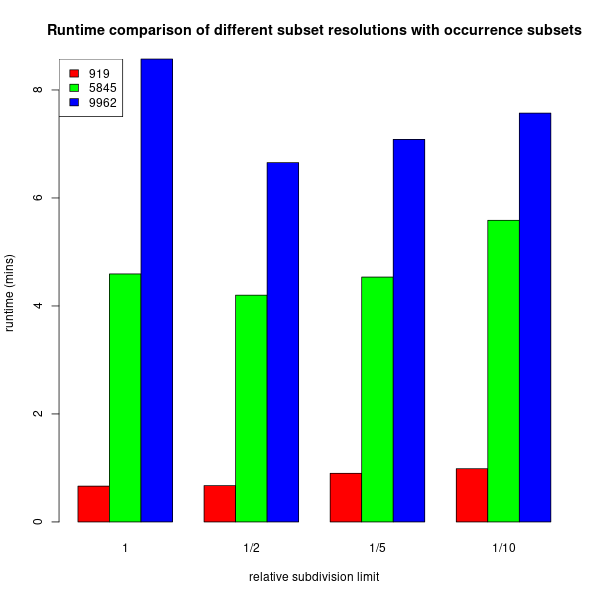
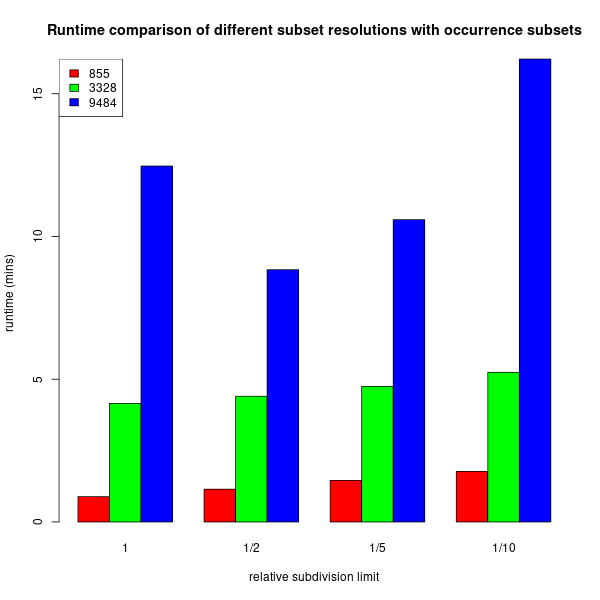
abs_gen with lc per year + benchmark + notebook

diff --git a/R/notebook.md b/R/notebook.md
@@ -3,7 +3,7 @@ This entry compiles everything up to the first entry.
 The Gbif data for *Harmonia axyridis* was downloaded from the website, Copernicus land cover classification layers for 1992-2020 as well. 
 The CHELSA bioclim layers were downloaded with wget.  
 At first, all Gbif occurrences were checked for NA values in coordinates, year and coordinate uncertainty. 
-Afterwards, they were cleaned using all default tests for the function 'clean_coordinates' from 'CoordinateCleaner'.  
+Afterwards, they were cleaned using all default tests for the function `clean_coordinates` from `CoordinateCleaner`.  
 The land cover layers were aggregated to match the resolution of the climate data, so a 3x3 cell area of the original layer was aggregated to one larger cell, matching the resolution of the CHELSA bioclim layers.
 The new value was the mode of the 9 grid cells.  
 The global layer was cropped to two spatial extents. 
@@ -45,7 +45,7 @@ The presence points will be subset per year and area to be able to give them the
 
 ### 08/08/2023
 The generation of background points was finished.
-Subsetting was not necessary, since the generated points were automatically assigned by the 'buffer' and 'spatSample' functions from 'terra'.
+Subsetting was not necessary, since the generated points were automatically assigned by the `buffer` and `spatSample` functions from `terra`.
 The script currently takes a lot of time due to the minimum distance check as it is implemented right now.
 There might be better options of doing this, for example with intersected buffer polygons instead of a normal distance calculation.
 
@@ -60,8 +60,8 @@ The current amount of absences per presence is 5, with a range of 10 km and a mi
 Merging all minimum distance circles (1 km), failed since the combined polygon was too large to compute. 
 Combining seems to not improve the runtime at all after further investigation.
 The new approach now is to geographically subset all points and compute the absences for each subset.
-The total extent is now split into extents until the desired density per extent is reached. (function lp_subdiv_pts())
-Afterwards, all occurrences are cropped to those extents and then separately used for absence generation. (function lp_gen_abs())
+The total extent is now split into extents until the desired density per extent is reached. (function `lp_subdiv_pts`)
+Afterwards, all occurrences are cropped to those extents and then separately used for absence generation. (function `lp_gen_abs`)
 The functions for these steps are defined in a separate function.r script.
 
 
@@ -103,7 +103,7 @@ A test run will be done overnight.
 ### 14/08/2023
 The test run without sub extents failed with an out of memory error.
 Maybe there are options to fix the memory error, with detriment to runtime, but this will not be pursued for now.  
-The value extraction for all years was rewritten with a defined function (lp_ext_vals()).
+The value extraction for all years was rewritten with a defined function `lp_ext_vals`.
 
 The maximum distance for absences was adjusted to 18 km, the estimated "typical" flight distance for *Harmonia axyridis* according to (Jeffries et al. 2013).
 There are many papers discussing minimum and maximum sampling distance of absences.
@@ -118,3 +118,12 @@ The code was fixed and new benchmarks were run.
 The benchmark results show a different optimum of subdivision now, but not a huge increase in runtime as feared at first.
 Memory limitations seem to occur with subdivisions above 10000, this will be investigated. (maybe WSL issue)
 For now, some minor memory management was added to the absence generation process.
+
+### 16/08/2023
+It was found that generated absences and some presences were still in water according to their lccs_class.
+This was in part due to not testing for land cover in the cleaning process.
+The occurrence cleaning process was then extended to test for water or NA in the corresponding Copernicus land cover layers.
+The absence generation had to be modified to use the correct land cover layer for each year, while still testing for proximity to presences from all years.
+Subdivision is now only used for Europe, since Asia has so little points in comparison.
+A new benchmark was conducted, with a similar optimum to yesterday (1/2).
+A full computation of absences will be conducted overnight.
